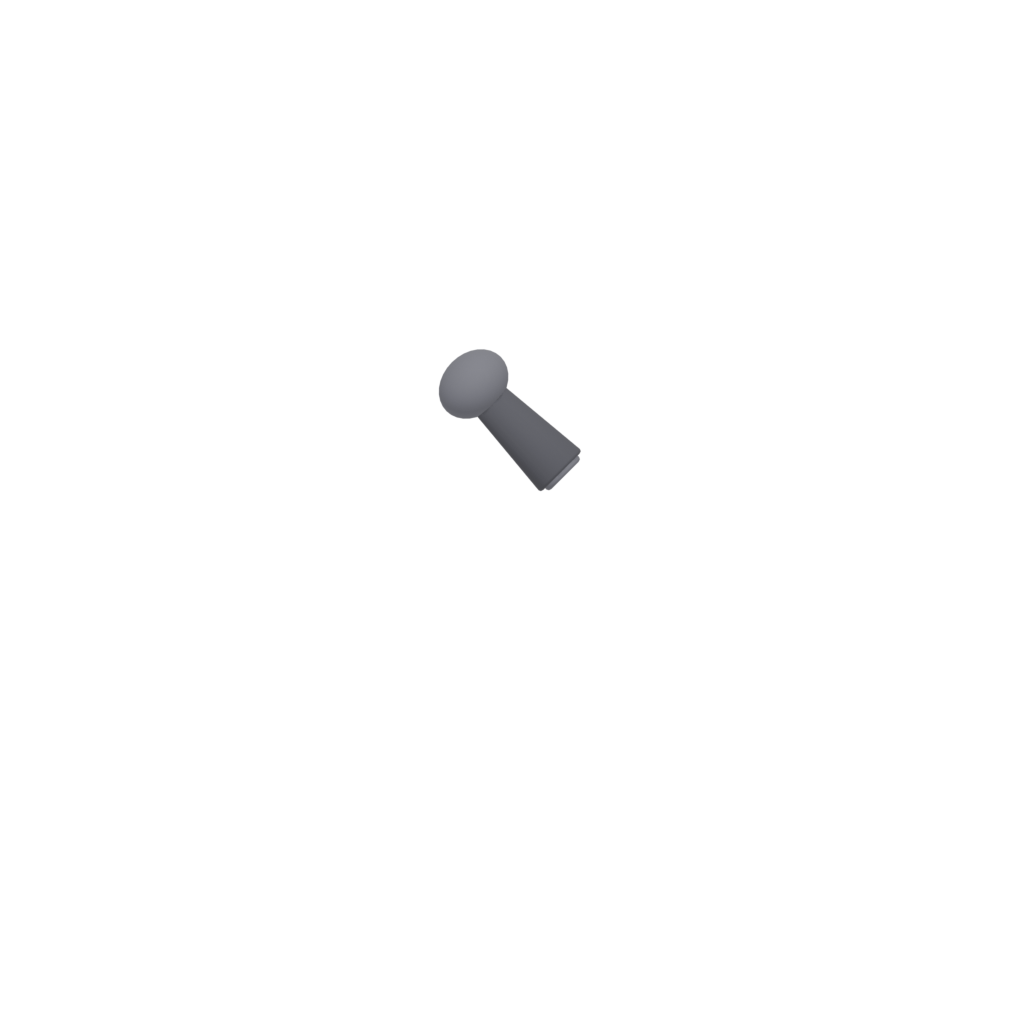
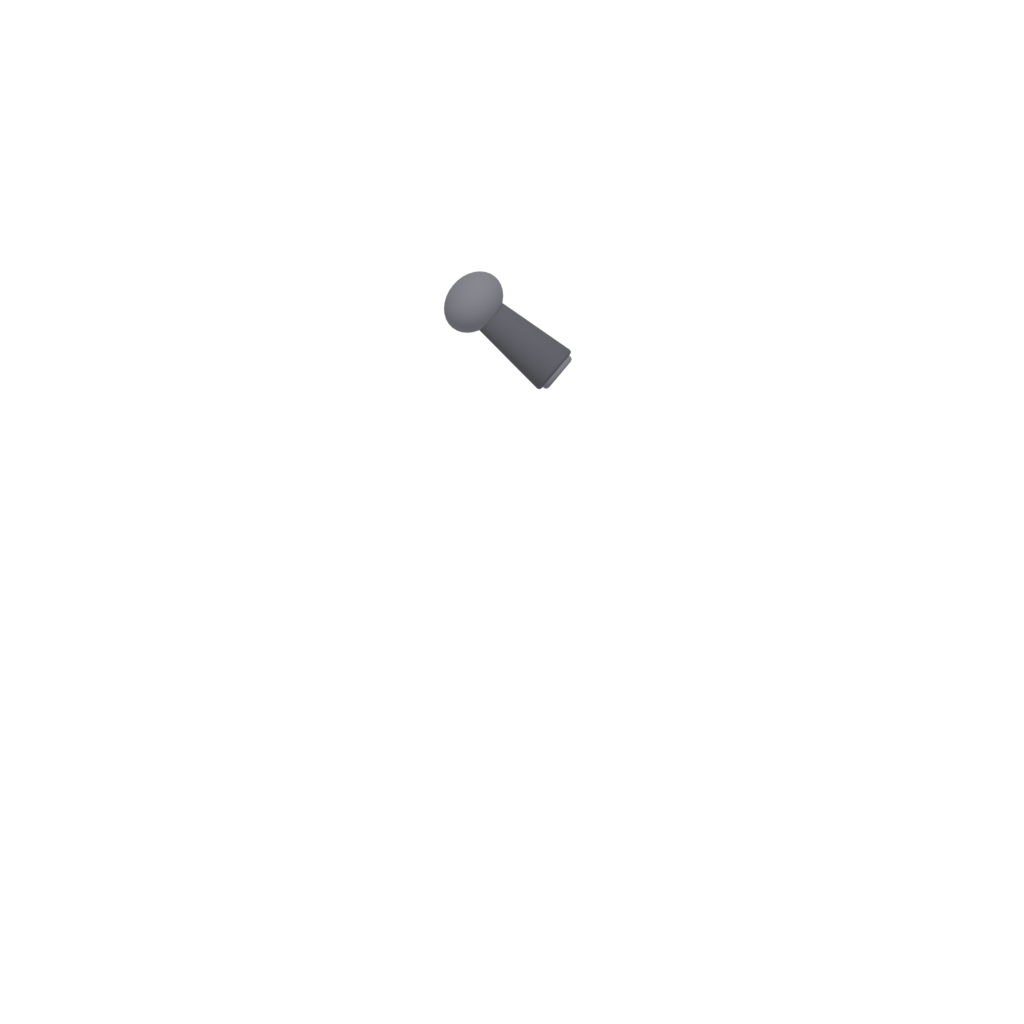
Ninja in Referenz-Form: 7-Kopf-Proportionen im Rig, natürlich gebeugter Arm (KI hält Pose), neue Gelenk-Tabelle

Changed region(s): [[0.4062, 0.25, 0.5625, 0.5]]

diff --git a/src/puppe.js b/src/puppe.js
@@ -9,9 +9,9 @@ import { ladeBild } from './bilder.js';
 
 // Gelenk-Pixel im 1024er-Render (vom Blender-Skript exakt ausgegeben)
 const GELENKE = {
-  schulter: [474, 384], huefte: [474, 563], hals: [474, 369], scheitel: [474, 198],
-  elle: [573, 484], hand: [664, 574],
-  knieV: [541, 715], fussV: [619, 862], knieH: [406, 715], fussH: [328, 862],
+  schulter: [474, 302], huefte: [474, 494], hals: [474, 287], scheitel: [474, 191],
+  elle: [567, 380], hand: [672, 408],
+  knieV: [552, 669], fussV: [639, 833], knieH: [396, 669], fussH: [308, 833],
 };
 
 // Teil → [von-Gelenk, bis-Gelenk]
@@ -114,14 +114,14 @@ export function zeichnePuppe(ctx, x, fussY, blick, pose, _puppe, skalierung = 1)
   const schulter = ende(huefte, pose.rumpf, s.rumpfLaenge, true);
   const kopfMitte = ende(schulter, pose.rumpf + pose.kopf, s.halsLaenge + s.kopfRadius, true);
   // Kopf-Anker exakt aus den Blender-Proportionen abgeleitet:
-  // Torso = 1.4 Blender-Einheiten ↔ rumpfLaenge Pixel; Hals sitzt 0.12 u über
-  // der Schulter, der Scheitel 1.33 u über dem Hals — so sitzt der Kopf passgenau.
-  const einheit = (s.rumpfLaenge / 1.4) * sk;
+  // Torso = 1.5 Blender-Einheiten ↔ rumpfLaenge Pixel; Hals sitzt 0.12 u über
+  // der Schulter, der Scheitel 0.75 u über dem Hals (7-Kopf-Proportionen).
+  const einheit = (s.rumpfLaenge / 1.5) * sk;
   const dLen = Math.hypot(kopfMitte[0] - schulter[0], kopfMitte[1] - schulter[1]) || 1;
   const rx = (kopfMitte[0] - schulter[0]) / dLen;
   const ry = (kopfMitte[1] - schulter[1]) / dLen;
   const hals = [schulter[0] + rx * 0.12 * einheit, schulter[1] + ry * 0.12 * einheit];
-  const scheitel = [hals[0] + rx * 1.33 * einheit, hals[1] + ry * 1.33 * einheit];
+  const scheitel = [hals[0] + rx * 0.75 * einheit, hals[1] + ry * 0.75 * einheit];
   const elleV = ende(schulter, pose.vSchulter, s.oberarm);
   const handV = ende(elleV, pose.vSchulter + pose.vEllbogen, s.unterarm);
   const elleH = ende(schulter, pose.hSchulter, s.oberarm);

diff --git a/tools/blender-juro.py b/tools/blender-juro.py
@@ -30,7 +30,7 @@ kam_daten = bpy.data.cameras.new('Kamera')
 kam_daten.type = 'ORTHO'
 kam_daten.ortho_scale = ORTHO
 kamera = bpy.data.objects.new('Kamera', kam_daten)
-kamera.location = (0, 12, 2.4)
+kamera.location = (0, 12, 2.76)
 kamera.rotation_euler = (math.radians(90), 0, math.radians(180))
 szene.collection.objects.link(kamera)
 szene.camera = kamera
@@ -49,7 +49,7 @@ def px(wx):
     return round(512 - wx * PX)  # Kamera spiegelt X: vorwärts (Bild rechts) = Welt -X
 
 def py(wz):
-    return round(512 - (wz - 2.4) * PX)  # Kamera-Mitte liegt auf z=2.4
+    return round(512 - (wz - 2.76) * PX)  # Kamera-Mitte
 
 # ---------- Materialien ----------
 def material(name, farbe, rauheit=0.85):
@@ -134,77 +134,77 @@ def sammle(bauen):
 
 def baue_kopf():
     def b():
-        kugel(0, 0.6, 0.5, SCHWARZ, sx=0.95, sz=1.05)        # Kapuze
-        kugel(0.32, 0.85, 0.3, SCHWARZ, sx=1.3, sz=0.8)      # Kapuzen-Falte hinten
-        kugel(-0.18, 0.4, 0.33, KOHLE, sx=0.95, sz=0.72)     # Gesichtsmaske unten
-        quader(-0.4, 0.62, 0.12, 0.28, 0.045, ROTGLUT)       # glühender Augenschlitz
+        kugel(0, 0.38, 0.3, SCHWARZ, sx=0.95, sz=1.1)        # Kapuze
+        kugel(0.2, 0.52, 0.18, SCHWARZ, sx=1.3, sz=0.8)      # Kapuzen-Falte hinten
+        kugel(-0.11, 0.24, 0.2, KOHLE, sx=0.95, sz=0.72)     # Gesichtsmaske
+        quader(-0.25, 0.4, 0.08, 0.18, 0.03, ROTGLUT)        # glühender Augenschlitz
     return sammle(b)
 
 def baue_torso():
     def b():
-        kugel(0, -0.25, 0.56, SCHWARZ, sy=0.55, sz=0.85)      # Brust
-        quader(-0.38, -0.45, 0.14, 0.28, 0.32, KOHLE)         # Brustplatte vorn
-        stumpf(0, -0.7, 0.44, -1.32, 0.34, SCHWARZ, sy=0.55)  # Taille
-        zylinder(0, -1.36, 0.4, 0.16, GRAU, sy=0.6)           # Gürtel
-        quader(-0.3, -1.52, 0.14, 0.2, 0.12, KOHLE)           # Tasche vorn
-        quader(0.3, -1.52, 0.14, 0.2, 0.12, KOHLE)            # Tasche hinten
-        stumpf(0, -1.44, 0.4, -2.1, 0.5, KOHLE, sy=0.5)       # Rock-Schöße
-        kugel(0, 0.08, 0.38, WEINROT, sx=1.3, sy=0.85, sz=0.5)  # Schal
-        kugel(0.55, -0.35, 0.12, WEINROT, sx=2.4, sz=0.5)     # Schal-Ende weht
-        kugel(0.62, -0.85, 0.1, WEINROT, sx=2.0, sz=0.45)     # zweites Ende
+        kugel(0, -0.28, 0.5, SCHWARZ, sy=0.55, sz=0.8)        # Brust
+        quader(-0.34, -0.5, 0.12, 0.26, 0.3, KOHLE)           # Brustplatte vorn
+        stumpf(0, -0.75, 0.38, -1.42, 0.3, SCHWARZ, sy=0.55)  # Taille
+        zylinder(0, -1.46, 0.36, 0.14, GRAU, sy=0.6)          # Gürtel
+        quader(-0.26, -1.6, 0.12, 0.18, 0.1, KOHLE)           # Tasche vorn
+        quader(0.26, -1.6, 0.12, 0.18, 0.1, KOHLE)            # Tasche hinten
+        stumpf(0, -1.52, 0.36, -2.15, 0.44, KOHLE, sy=0.5)    # Rock-Schöße
+        kugel(0, 0.04, 0.33, WEINROT, sx=1.3, sy=0.85, sz=0.45)  # Schal
+        kugel(0.5, -0.35, 0.1, WEINROT, sx=2.4, sz=0.5)       # Schal-Ende weht
+        kugel(0.56, -0.8, 0.09, WEINROT, sx=2.0, sz=0.45)
     return sammle(b)
 
 def baue_oberarm():
     def b():
-        kugel(0, -0.08, 0.3, KOHLE, sz=0.8)                   # Schulterplatte
-        quader(-0.2, -0.12, 0.08, 0.2, 0.1, ROTGLUT)          # rote Markierung
-        stumpf(0, -0.18, 0.23, -1.05, 0.15, SCHWARZ)
-        zylinder(0, -1.02, 0.18, 0.14, KOHLE)
+        kugel(0, -0.06, 0.26, KOHLE, sz=0.8)                  # Schulterplatte
+        quader(-0.17, -0.1, 0.07, 0.18, 0.09, ROTGLUT)        # rote Markierung
+        stumpf(0, -0.14, 0.2, -0.9, 0.13, SCHWARZ)
+        zylinder(0, -0.88, 0.16, 0.12, KOHLE)
     return sammle(b)
 
 def baue_unterarm():
     def b():
-        stumpf(0, -0.02, 0.17, -0.78, 0.12, SCHWARZ)
-        stumpf(0, -0.38, 0.19, -0.78, 0.15, KOHLE)            # Armschiene
-        kugel(0, -0.97, 0.17, KOHLE, sz=1.1)                  # Handschuh-Faust
-        kugel(-0.13, -0.9, 0.075, KOHLE)
+        stumpf(0, -0.02, 0.15, -0.66, 0.11, SCHWARZ)
+        stumpf(0, -0.32, 0.17, -0.66, 0.13, KOHLE)            # Armschiene
+        kugel(0, -0.8, 0.15, KOHLE, sz=1.1)                   # Handschuh-Faust
+        kugel(-0.11, -0.74, 0.065, KOHLE)
     return sammle(b)
 
 def baue_schenkel():
     def b():
-        kugel(0, -0.05, 0.28, SCHWARZ, sz=0.8)
-        stumpf(0, -0.1, 0.26, -1.2, 0.16, SCHWARZ)
-        zylinder(0, -1.18, 0.19, 0.14, KOHLE)
+        kugel(0, -0.05, 0.26, SCHWARZ, sz=0.8)
+        stumpf(0, -0.1, 0.24, -1.4, 0.15, SCHWARZ)
+        zylinder(0, -1.38, 0.18, 0.12, KOHLE)
     return sammle(b)
 
 def baue_schienbein():
     def b():
-        stumpf(0, -0.02, 0.15, -0.5, 0.13, SCHWARZ)
-        for i, zz in enumerate([-0.5, -0.68, -0.86, -1.04]):   # Bandagen-Wicklung
-            zylinder(0, zz, 0.16 - i * 0.008, 0.15, GRAU)
-        kugel(-0.16, -1.26, 0.17, SCHWARZ, sx=1.5, sz=0.55)    # Tabi-Spitze
-        kugel(0.1, -1.27, 0.12, SCHWARZ, sx=0.9, sz=0.6)       # Ferse
+        stumpf(0, -0.02, 0.14, -0.6, 0.12, SCHWARZ)
+        for i, zz in enumerate([-0.6, -0.78, -0.96, -1.14]):   # Bandagen
+            zylinder(0, zz, 0.15 - i * 0.007, 0.15, GRAU)
+        kugel(-0.15, -1.4, 0.16, SCHWARZ, sx=1.5, sz=0.55)     # Tabi-Spitze
+        kugel(0.09, -1.41, 0.11, SCHWARZ, sx=0.9, sz=0.6)      # Ferse
     return sammle(b)
 
 # ---------- Figur montieren (Spreiz-Pose; vorwärts = Welt -X = Bild rechts) ----------
 def grad(w):
     return math.radians(w)
 
-SCHULTER = (0.3, 3.4)
-HUEFTE = (0.3, 2.0)
-HALS = (0.3, 3.52)
-L_OBERARM, L_UNTERARM, L_SCHENKEL, L_SCHIENBEIN = 1.1, 1.0, 1.3, 1.3
+SCHULTER = (0.3, 4.4)
+HUEFTE = (0.3, 2.9)
+HALS = (0.3, 4.52)
+L_OBERARM, L_UNTERARM, L_SCHENKEL, L_SCHIENBEIN = 0.95, 0.85, 1.5, 1.45
 
 def kind(gelenk, winkel, laenge):
     return (gelenk[0] - math.sin(grad(winkel)) * laenge, gelenk[1] - math.cos(grad(winkel)) * laenge)
 
-ELLE = kind(SCHULTER, 45, L_OBERARM)
-HAND = kind(ELLE, 45, L_UNTERARM)
+ELLE = kind(SCHULTER, 50, L_OBERARM)
+HAND = kind(ELLE, 75, L_UNTERARM)  # Ellbogen leicht gebeugt — natürliche Haltung
 KNIE_V = kind(HUEFTE, 24, L_SCHENKEL)
 FUSS_V = kind(KNIE_V, 28, L_SCHIENBEIN)
 KNIE_H = kind(HUEFTE, -24, L_SCHENKEL)
 FUSS_H = kind(KNIE_H, -28, L_SCHIENBEIN)
-SCHEITEL = (HALS[0], HALS[1] + 1.33)
+SCHEITEL = (HALS[0], HALS[1] + 0.75)
 
 def platziere(obj, gelenk, winkel):
     obj.location = (gelenk[0], 0, gelenk[1])
@@ -217,8 +217,8 @@ teile['beinV_O'] = baue_schenkel();   platziere(teile['beinV_O'], HUEFTE, 24)
 teile['beinV_U'] = baue_schienbein(); platziere(teile['beinV_U'], KNIE_V, 28)
 teile['torso'] = baue_torso();        platziere(teile['torso'], SCHULTER, 0)
 teile['kopf'] = baue_kopf();          platziere(teile['kopf'], HALS, 0)
-teile['armO'] = baue_oberarm();       platziere(teile['armO'], SCHULTER, 45)
-teile['armU'] = baue_unterarm();      platziere(teile['armU'], ELLE, 45)
+teile['armO'] = baue_oberarm();       platziere(teile['armO'], SCHULTER, 50)
+teile['armU'] = baue_unterarm();      platziere(teile['armU'], ELLE, 75)
 
 # ---------- Rendern: 1× Figur (weiß) + 1 Maske pro Teil (transparent) ----------
 basis = os.path.join(os.path.dirname(os.path.dirname(os.path.abspath(__file__))), 'assets', 'teile', 'juro')

diff --git a/assets/prompts.md b/assets/prompts.md
@@ -53,3 +53,6 @@
 | assets/teile/juro/gemalt.png | fal-ai/flux/dev/image-to-image (canny 0.55) | 1333434654 | painterly dark fantasy game character, exactly this pose and silhouette, young male martial artist in strict side view facing right, spiky dark blue-black hair, red headband with flowing tails behind the head, red scarf, fitted dark navy blue coat with red belt and flared hem, navy pants, leather bracer on the forearm, clenched fist, brown leather boots, rich fabric folds and painted shading, soft warm light, plain white background, no weapon, no text |
 | assets/teile/juro/gemalt.png | fal-ai/flux/dev/image-to-image (canny 0.55) | 1686381091 | painterly dark fantasy game character art, exactly this pose and silhouette, black armored ninja in strict side view facing right, dark hood over the head, black face mask with one glowing red eye slit, dark burgundy red scarf with two flowing tails behind him, matte black tactical armor with subtle glowing red markings on the angular shoulder plate, black chest plate, utility belt with pouches, black pants, grey bandage wraps around the shins, black tabi boots, black gloved fist, leather bracer, moody painted shading, plain white background, no weapon, no text |
 | assets/teile/juro/gemalt.png | fal-ai/flux/dev/image-to-image (canny 0.7) | 1972407523 | high quality detailed 2d game character art, keep exactly this pose and body layout, black armored ninja assassin in strict side view facing right, sleek dark hood, black face mask, one glowing red eye, dark burgundy scarf with two long flowing tails, matte black segmented tactical armor with glowing red accents on the angular shoulder plate, black chest armor, utility belt with pouches, black fitted pants, grey bandage wraps on the shins, black tabi boots, gloved fist, rich painted shading and material detail like a AAA concept sheet, plain white background, no weapon, no text |
+| assets/teile/juro/gemalt.png | fal-ai/flux/dev/image-to-image (canny 0.7) | 1182975784 | high quality detailed 2d game character art, keep exactly this pose, body layout and adult proportions, tall athletic black armored ninja assassin in strict side view facing right, sleek dark hood, black face mask, glowing red eye, dark burgundy scarf with two long flowing tails, matte black segmented tactical armor with glowing red accents on the angular shoulder plate, black chest armor, utility belt with pouches, black fitted pants, grey bandage wraps on the shins, black tabi boots, gloved fist, rich painted shading like a AAA concept sheet, plain white background, no weapon, no text, no watermark |
+| assets/teile/juro/gemalt.png | fal-ai/flux/dev/image-to-image (canny 0.65) | 1519530421 | high quality detailed 2d game character art, keep EXACTLY this pose: the visible arm is held perfectly straight, angled 45 degrees forward-downward, fist below hip height, legs in wide stance, tall athletic adult proportions, black armored ninja assassin in strict side view facing right, sleek dark hood, black face mask, glowing red eye, short dark burgundy scarf tail behind the neck, matte black segmented tactical armor with glowing red accents on the shoulder plate, utility belt with pouches, black fitted pants, grey bandage wraps on the shins, black tabi boots, gloved straight arm with closed fist, rich painted shading, plain white background, no weapon, no text, no watermark |
+| assets/teile/juro/gemalt.png | fal-ai/flux/dev/image-to-image (canny 0.7) | 1765841386 | high quality detailed 2d game character art, keep exactly this pose, body layout and adult proportions, tall athletic black armored ninja assassin in strict side view facing right, sleek dark hood, black face mask, glowing red eye, dark burgundy scarf with flowing tails, matte black segmented tactical armor with glowing red accents on the angular shoulder plate, black chest armor, utility belt with pouches, black fitted pants, grey bandage wraps on the shins, black tabi boots, gloved fist, rich painted shading like a AAA concept sheet, plain white background, no weapon, no text, no watermark |
